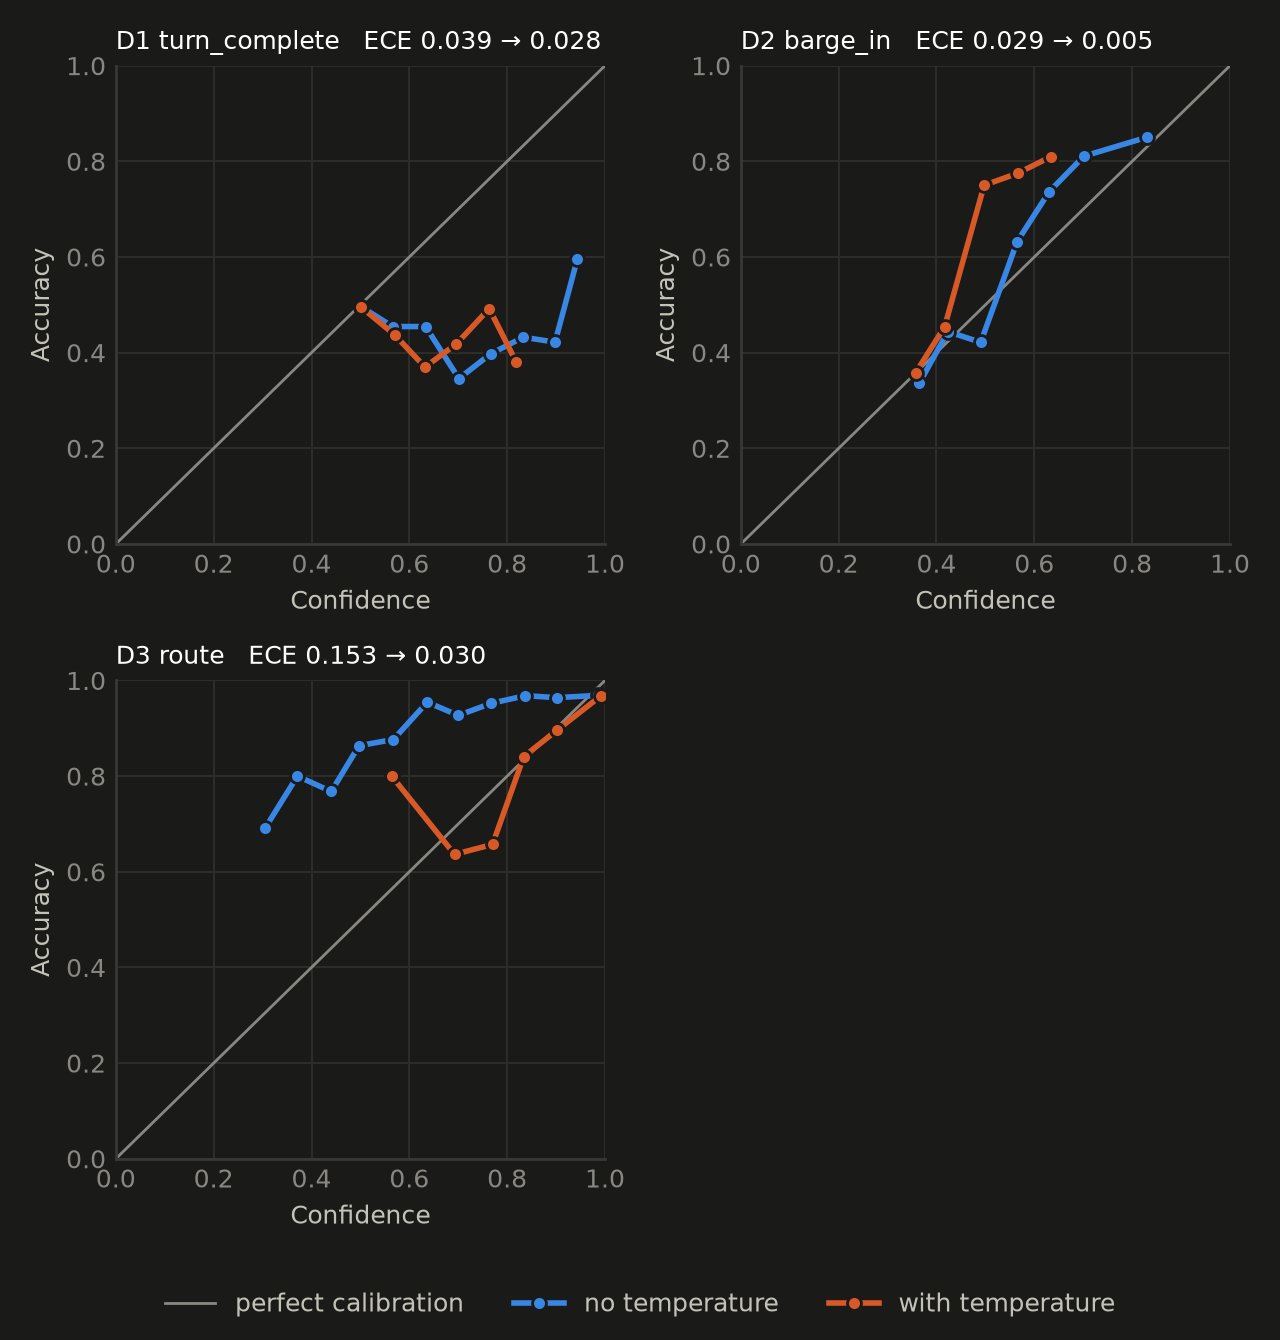
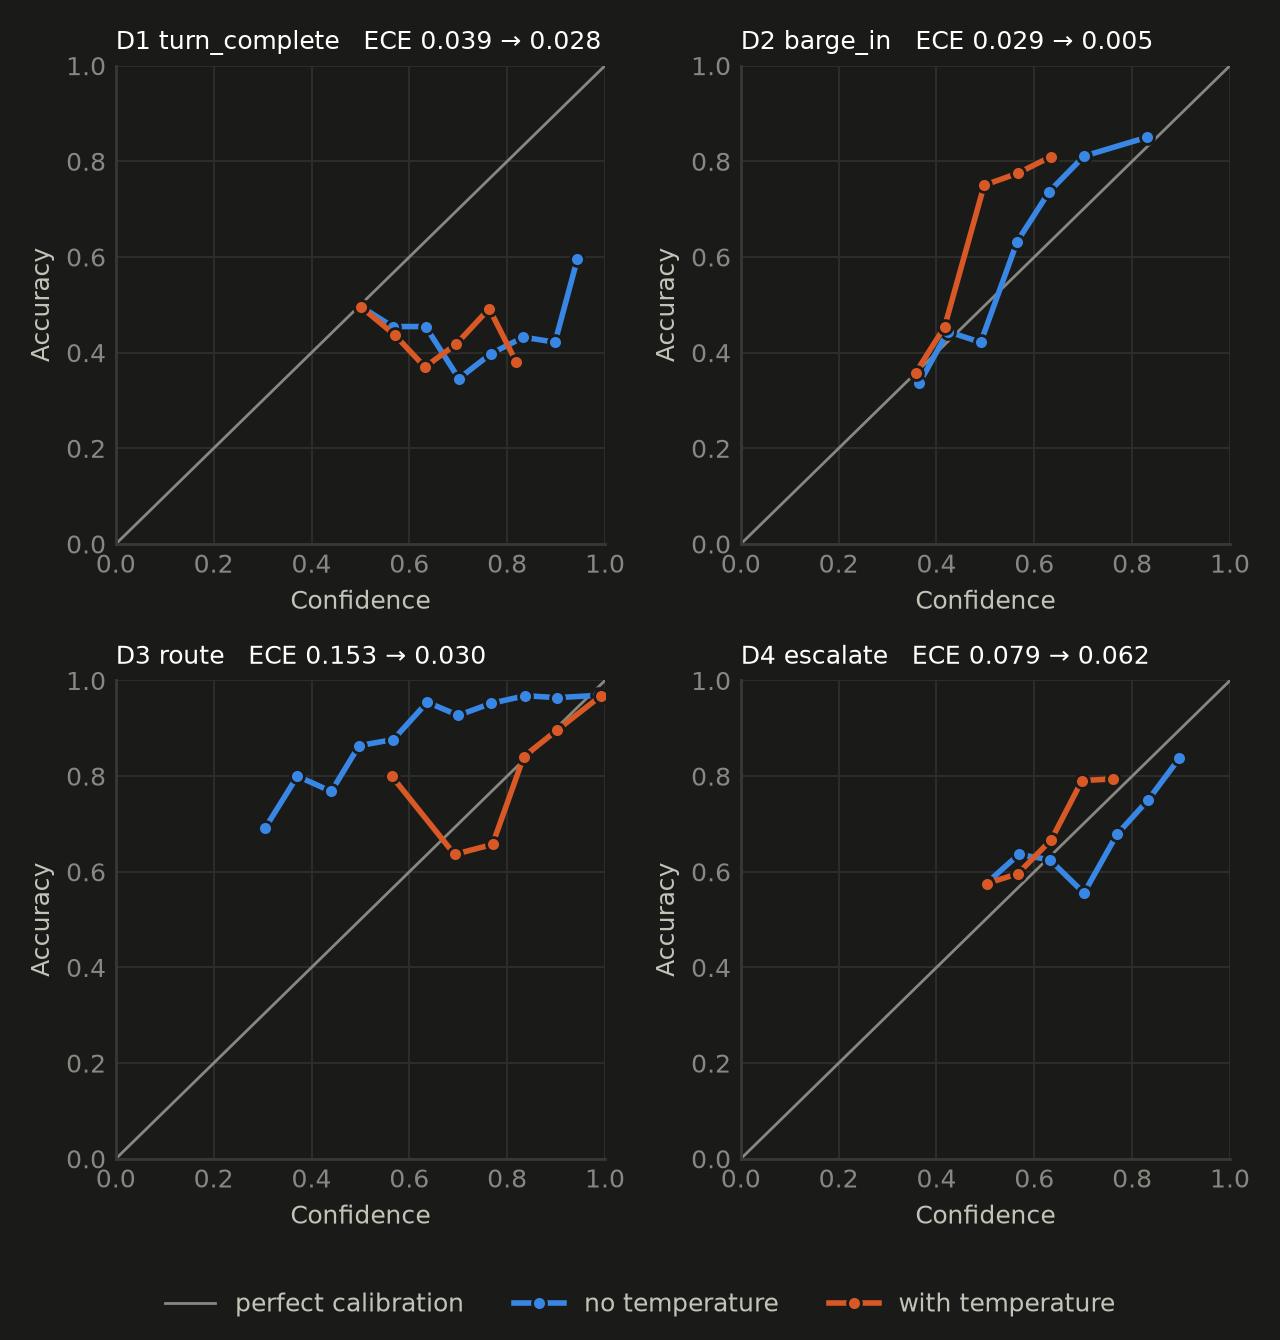
eval: stock Laya on D4, and the curves with D4 included
Stock Laya on the hand-labelled D4 test set (n=396): accuracy 0.639,
macro-F1 0.579, ECE 0.062. It catches 52 of 136 escalations (38%
recall, 47% precision), and its accuracy is below always answering
"no" (0.657). D4, like D1 and D2, needs fine-tuning; only D3 works
zero-shot. The D4 majority row waits for the train prior.

The reliability figure now has four panels. It also corrects
docs/spike-m0.md: stock D3 routing is not "overconfident by
construction". The raw logits are underconfident, and the clamped
T = 0.5 lowers ECE from 0.153 to 0.030. The earlier line was an
inference that was never measured, and it is kept with a dated
correction.

diff --git a/docs/spike-m0.md b/docs/spike-m0.md
@@ -39,6 +39,11 @@ zero-shot decision engine"):
   pin_change) and flags weather and restaurant requests as out_of_scope. Its confidences read 1.00
   because the checkpoint's `choice:11+` temperature is 0.1006. Laya clamps it to 0.5, which still
   *sharpens* (T < 1), so stock route probabilities are overconfident by construction.
+  **Correction (2026-09-28): that last inference was wrong.** It was reasoned from "T < 1
+  sharpens", not measured. Measured on the full D3 test set (`results/curves/stock_laya.json`),
+  the raw logits are *under*confident, and sharpening them with T = 0.5 lowers ECE from 0.153 to
+  0.030. The shipped temperature helps. What remains true is that the unclamped 0.1006 would have
+  sharpened far past that.
 - **escalate is noisy**: 0.84 for "can i just talk to a real person please", but also 0.78 for
   "when is my electric bill due".
 

diff --git a/README.md b/README.md
@@ -51,7 +51,7 @@ readme`; a row without a results file says TODO.
 | D3 route | fine-tuned + temperature | TODO | TODO | TODO | TODO | TODO |
 | D3 route | prompted LLM, stated probabilities | TODO | TODO | TODO | TODO | TODO |
 | D4 escalate | majority class (train prior) | TODO | TODO | TODO | TODO | TODO |
-| D4 escalate | stock Laya, zero-shot | TODO | TODO | TODO | TODO | TODO |
+| D4 escalate | stock Laya, zero-shot | 0.639 [0.590, 0.685] | 0.579 | 0.062 | 0.454 | 0.662 (198) |
 | D4 escalate | fine-tuned | TODO | TODO | TODO | TODO | TODO |
 | D4 escalate | fine-tuned + temperature | TODO | TODO | TODO | TODO | TODO |
 | D4 escalate | prompted LLM, stated probabilities | TODO | TODO | TODO | TODO | TODO |
